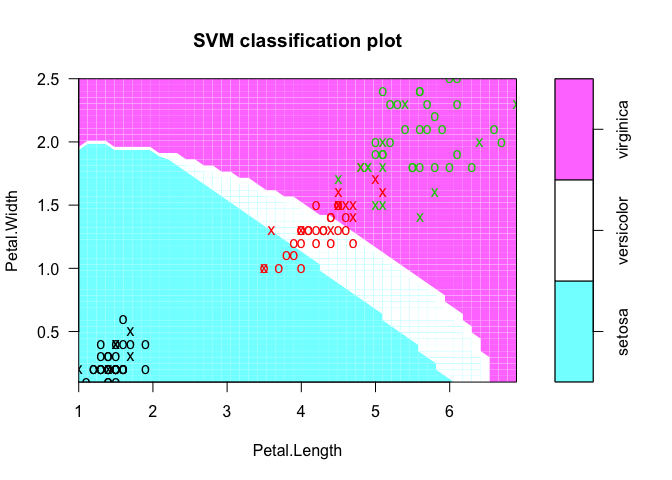
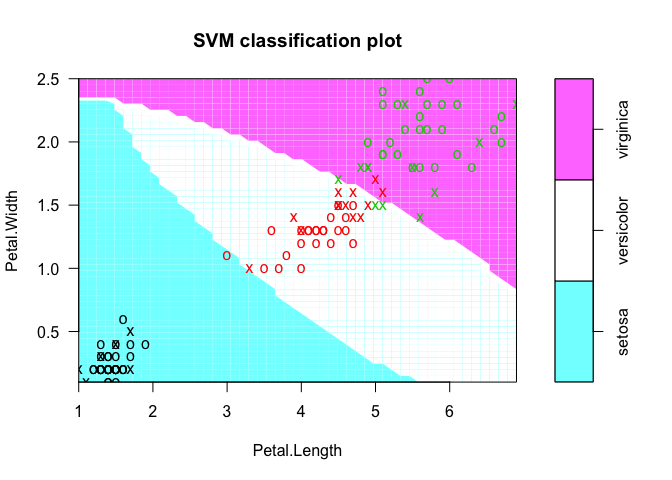
More SVM theory and details on parameter tuning

diff --git a/iris/iris_svm.md b/iris/iris_svm.md
@@ -6,7 +6,7 @@ Madlen Wilmes
 Purpose of the script
 ---------------------
 
-Use iris data set to explore clustering via support vector machines (SVM), multiclass SVM and Support Vector Clustering (SVC).
+Use iris data set to explore clustering via support vector machines (SVM) or Support Vector Clustering (SVC).
 
 A bit of theory
 ---------------
@@ -64,9 +64,9 @@ summary(svm_model)
     ##        cost:  1 
     ##       gamma:  0.25 
     ## 
-    ## Number of Support Vectors:  42
+    ## Number of Support Vectors:  44
     ## 
-    ##  ( 6 18 18 )
+    ##  ( 8 19 17 )
     ## 
     ## 
     ## Number of Classes:  3 
@@ -100,22 +100,22 @@ accu_tab
     ##             Real
     ## Predicted    setosa versicolor virginica
     ##   setosa          9          0         0
-    ##   versicolor      0         10         0
-    ##   virginica       0          1         9
+    ##   versicolor      0         12         0
+    ##   virginica       0          1        11
 
 ``` r
 ## misclassification rate
 1 - sum(diag(accu_tab)) / sum(accu_tab)
 ```
 
-    ## [1] 0.03448276
+    ## [1] 0.03030303
 
 ``` r
 ## classification accuracy
 sum(diag(accu_tab)) / sum(accu_tab)
 ```
 
-    ## [1] 0.9655172
+    ## [1] 0.969697
 
 Misclasification rate = 1 /30 = 0.033 Classification accuracy = 29 / 30 = 0.967
 
@@ -148,76 +148,76 @@ summary(tune_model)
     ##  epsilon cost
     ##        0    4
     ## 
-    ## - best performance: 0.03269231 
+    ## - best performance: 0.0530303 
     ## 
     ## - Detailed performance results:
     ##    epsilon cost      error dispersion
-    ## 1      0.0    4 0.03269231 0.04224613
-    ## 2      0.1    4 0.03269231 0.04224613
-    ## 3      0.2    4 0.03269231 0.04224613
-    ## 4      0.3    4 0.03269231 0.04224613
-    ## 5      0.4    4 0.03269231 0.04224613
-    ## 6      0.5    4 0.03269231 0.04224613
-    ## 7      0.6    4 0.03269231 0.04224613
-    ## 8      0.7    4 0.03269231 0.04224613
-    ## 9      0.8    4 0.03269231 0.04224613
-    ## 10     0.9    4 0.03269231 0.04224613
-    ## 11     1.0    4 0.03269231 0.04224613
-    ## 12     0.0    8 0.03269231 0.04224613
-    ## 13     0.1    8 0.03269231 0.04224613
-    ## 14     0.2    8 0.03269231 0.04224613
-    ## 15     0.3    8 0.03269231 0.04224613
-    ## 16     0.4    8 0.03269231 0.04224613
-    ## 17     0.5    8 0.03269231 0.04224613
-    ## 18     0.6    8 0.03269231 0.04224613
-    ## 19     0.7    8 0.03269231 0.04224613
-    ## 20     0.8    8 0.03269231 0.04224613
-    ## 21     0.9    8 0.03269231 0.04224613
-    ## 22     1.0    8 0.03269231 0.04224613
-    ## 23     0.0   16 0.03269231 0.04224613
-    ## 24     0.1   16 0.03269231 0.04224613
-    ## 25     0.2   16 0.03269231 0.04224613
-    ## 26     0.3   16 0.03269231 0.04224613
-    ## 27     0.4   16 0.03269231 0.04224613
-    ## 28     0.5   16 0.03269231 0.04224613
-    ## 29     0.6   16 0.03269231 0.04224613
-    ## 30     0.7   16 0.03269231 0.04224613
-    ## 31     0.8   16 0.03269231 0.04224613
-    ## 32     0.9   16 0.03269231 0.04224613
-    ## 33     1.0   16 0.03269231 0.04224613
-    ## 34     0.0   32 0.04102564 0.05845492
-    ## 35     0.1   32 0.04102564 0.05845492
-    ## 36     0.2   32 0.04102564 0.05845492
-    ## 37     0.3   32 0.04102564 0.05845492
-    ## 38     0.4   32 0.04102564 0.05845492
-    ## 39     0.5   32 0.04102564 0.05845492
-    ## 40     0.6   32 0.04102564 0.05845492
-    ## 41     0.7   32 0.04102564 0.05845492
-    ## 42     0.8   32 0.04102564 0.05845492
-    ## 43     0.9   32 0.04102564 0.05845492
-    ## 44     1.0   32 0.04102564 0.05845492
-    ## 45     0.0   64 0.04935897 0.05789376
-    ## 46     0.1   64 0.04935897 0.05789376
-    ## 47     0.2   64 0.04935897 0.05789376
-    ## 48     0.3   64 0.04935897 0.05789376
-    ## 49     0.4   64 0.04935897 0.05789376
-    ## 50     0.5   64 0.04935897 0.05789376
-    ## 51     0.6   64 0.04935897 0.05789376
-    ## 52     0.7   64 0.04935897 0.05789376
-    ## 53     0.8   64 0.04935897 0.05789376
-    ## 54     0.9   64 0.04935897 0.05789376
-    ## 55     1.0   64 0.04935897 0.05789376
-    ## 56     0.0  128 0.06602564 0.05251805
-    ## 57     0.1  128 0.06602564 0.05251805
-    ## 58     0.2  128 0.06602564 0.05251805
-    ## 59     0.3  128 0.06602564 0.05251805
-    ## 60     0.4  128 0.06602564 0.05251805
-    ## 61     0.5  128 0.06602564 0.05251805
-    ## 62     0.6  128 0.06602564 0.05251805
-    ## 63     0.7  128 0.06602564 0.05251805
-    ## 64     0.8  128 0.06602564 0.05251805
-    ## 65     0.9  128 0.06602564 0.05251805
-    ## 66     1.0  128 0.06602564 0.05251805
+    ## 1      0.0    4 0.05303030 0.07592574
+    ## 2      0.1    4 0.05303030 0.07592574
+    ## 3      0.2    4 0.05303030 0.07592574
+    ## 4      0.3    4 0.05303030 0.07592574
+    ## 5      0.4    4 0.05303030 0.07592574
+    ## 6      0.5    4 0.05303030 0.07592574
+    ## 7      0.6    4 0.05303030 0.07592574
+    ## 8      0.7    4 0.05303030 0.07592574
+    ## 9      0.8    4 0.05303030 0.07592574
+    ## 10     0.9    4 0.05303030 0.07592574
+    ## 11     1.0    4 0.05303030 0.07592574
+    ## 12     0.0    8 0.05303030 0.07592574
+    ## 13     0.1    8 0.05303030 0.07592574
+    ## 14     0.2    8 0.05303030 0.07592574
+    ## 15     0.3    8 0.05303030 0.07592574
+    ## 16     0.4    8 0.05303030 0.07592574
+    ## 17     0.5    8 0.05303030 0.07592574
+    ## 18     0.6    8 0.05303030 0.07592574
+    ## 19     0.7    8 0.05303030 0.07592574
+    ## 20     0.8    8 0.05303030 0.07592574
+    ## 21     0.9    8 0.05303030 0.07592574
+    ## 22     1.0    8 0.05303030 0.07592574
+    ## 23     0.0   16 0.05303030 0.07592574
+    ## 24     0.1   16 0.05303030 0.07592574
+    ## 25     0.2   16 0.05303030 0.07592574
+    ## 26     0.3   16 0.05303030 0.07592574
+    ## 27     0.4   16 0.05303030 0.07592574
+    ## 28     0.5   16 0.05303030 0.07592574
+    ## 29     0.6   16 0.05303030 0.07592574
+    ## 30     0.7   16 0.05303030 0.07592574
+    ## 31     0.8   16 0.05303030 0.07592574
+    ## 32     0.9   16 0.05303030 0.07592574
+    ## 33     1.0   16 0.05303030 0.07592574
+    ## 34     0.0   32 0.06212121 0.09587982
+    ## 35     0.1   32 0.06212121 0.09587982
+    ## 36     0.2   32 0.06212121 0.09587982
+    ## 37     0.3   32 0.06212121 0.09587982
+    ## 38     0.4   32 0.06212121 0.09587982
+    ## 39     0.5   32 0.06212121 0.09587982
+    ## 40     0.6   32 0.06212121 0.09587982
+    ## 41     0.7   32 0.06212121 0.09587982
+    ## 42     0.8   32 0.06212121 0.09587982
+    ## 43     0.9   32 0.06212121 0.09587982
+    ## 44     1.0   32 0.06212121 0.09587982
+    ## 45     0.0   64 0.06212121 0.09587982
+    ## 46     0.1   64 0.06212121 0.09587982
+    ## 47     0.2   64 0.06212121 0.09587982
+    ## 48     0.3   64 0.06212121 0.09587982
+    ## 49     0.4   64 0.06212121 0.09587982
+    ## 50     0.5   64 0.06212121 0.09587982
+    ## 51     0.6   64 0.06212121 0.09587982
+    ## 52     0.7   64 0.06212121 0.09587982
+    ## 53     0.8   64 0.06212121 0.09587982
+    ## 54     0.9   64 0.06212121 0.09587982
+    ## 55     1.0   64 0.06212121 0.09587982
+    ## 56     0.0  128 0.06212121 0.09587982
+    ## 57     0.1  128 0.06212121 0.09587982
+    ## 58     0.2  128 0.06212121 0.09587982
+    ## 59     0.3  128 0.06212121 0.09587982
+    ## 60     0.4  128 0.06212121 0.09587982
+    ## 61     0.5  128 0.06212121 0.09587982
+    ## 62     0.6  128 0.06212121 0.09587982
+    ## 63     0.7  128 0.06212121 0.09587982
+    ## 64     0.8  128 0.06212121 0.09587982
+    ## 65     0.9  128 0.06212121 0.09587982
+    ## 66     1.0  128 0.06212121 0.09587982
 
 retrieve model with 'best' parameters
 -------------------------------------
@@ -240,9 +240,9 @@ summary(opti_model)
     ##        cost:  4 
     ##       gamma:  0.25 
     ## 
-    ## Number of Support Vectors:  33
+    ## Number of Support Vectors:  32
     ## 
-    ##  ( 6 14 13 )
+    ##  ( 6 14 12 )
     ## 
     ## 
     ## Number of Classes:  3 
@@ -267,22 +267,22 @@ accu_tab
     ##             Real
     ## Predicted    setosa versicolor virginica
     ##   setosa         41          0         0
-    ##   versicolor      0         37         0
-    ##   virginica       0          2        41
+    ##   versicolor      0         35         0
+    ##   virginica       0          2        39
 
 ``` r
 ## misclassification rate
 1 - sum(diag(accu_tab)) / sum(accu_tab)
 ```
 
-    ## [1] 0.01652893
+    ## [1] 0.01709402
 
 ``` r
 ## classification accuracy
 sum(diag(accu_tab)) / sum(accu_tab)
 ```
 
-    ## [1] 0.9834711
+    ## [1] 0.982906
 
 ### re-run on test set
 
@@ -295,19 +295,19 @@ accu_tab
     ##             Real
     ## Predicted    setosa versicolor virginica
     ##   setosa          9          0         0
-    ##   versicolor      0         10         0
-    ##   virginica       0          1         9
+    ##   versicolor      0         12         0
+    ##   virginica       0          1        11
 
 ``` r
 ## misclassification rate
 1 - sum(diag(accu_tab)) / sum(accu_tab)
 ```
 
-    ## [1] 0.03448276
+    ## [1] 0.03030303
 
 ``` r
 ## classification accuracy
 sum(diag(accu_tab)) / sum(accu_tab)
 ```
 
-    ## [1] 0.9655172
+    ## [1] 0.969697
